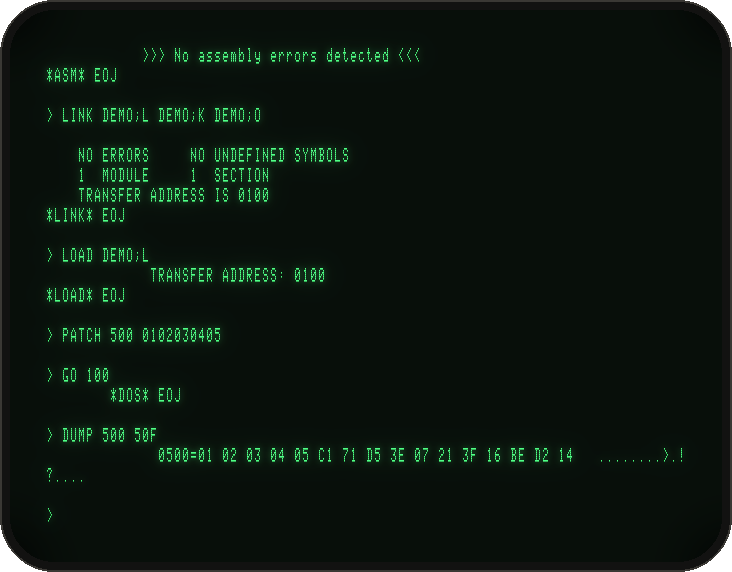
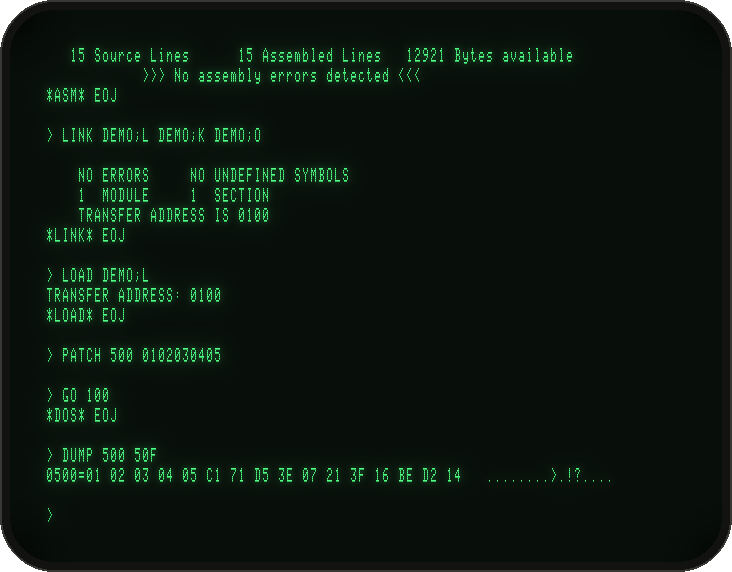
Docs: the CT8100's LF DOES CR strap and host features, lamps from the schematics, screenshots README
- Pictures regenerated on main's CT8100 (LF DOES CR, steady cursor): output starts at the
  left margin again, so the notes about misplaced columns are gone.
- OPERATION §6.4 and ARCHITECTURE §7: the strap, the host features (cursor addressing, clear
  page, read cursor, display fields, clear input, rulings), the steady cursor and -cursor blink;
  INTEGRATION §5: programs that drive the CT8100.
- README's GUI section: SYS, RUN and PWR from the schematics (notes/8002.md).
- docs/screenshots/README.md: how each picture is made, and what is a choice (font, phosphor).

Changed region(s): [[0.0601, 0.0892, 0.7814, 0.8619], [0.4809, 0.7727, 0.6311, 0.8619], [0.6311, 0.7727, 0.7814, 0.8322]]

diff --git a/docs/screenshots/README.md b/docs/screenshots/README.md
@@ -1,0 +1,52 @@
+# Screenshots
+
+Every picture here is made by a script from a batch run of the emulator, and comes out byte-identical on every run. The command sequences are those of the session tests in `tests/`.
+
+## The CT8100 screens (`tools/make_screenshots.sh`)
+
+The CT8100's screen as the emulator holds it, drawn on the raster the GUI uses (`emu/src/host/ct8100_raster.*`): 80 × 24 characters, each a 5 × 8 dot glyph in an 8 × 10 dot field, so 640 dots × 240 scan lines. Every scan line is doubled, the second dimmer, for 640 × 480, and the picture sits on a tube face with a phosphor glow (`tools/render_screens.py --crt`). The glyphs are read from `emu/src/host/term_font.inc`, the font both front ends use.
+
+The CT8100's character generator and its phosphor colour are not documented (`notes/ct8100.md`). The font is the one the sibling 8550 emulator draws its CT8500 with: the Tektronix 308's character ROM for upper case, and a lower case drawn to match. The green is the GUI's.
+
+Each session runs twice on fresh copies of its discs. The first run finds where it ends; the second saves the screen (`-snap`) every 0.05 s, and `tools/pick_snap.py` picks the first frame that holds the wanted output at a bare `>` prompt. A `-snap` is text, so the pictures show no cursor, and display fields' looks are not kept (TEKDOS uses none).
+
+| Picture | Session |
+|---|---|
+| `01_ldir.png` | boot TEKDOS 3.3 (6800) and `LDIR` |
+| `02_lower_case.png` | `ldir` in lower case: ERROR 03 |
+| `03_backspace_rubout.png` | BACK SPACE overwrites; RUB OUT echoes the deleted character |
+| `04_write_protected.png` | ASM without `-rw`: I/O ERROR=0F |
+| `10_z80_build.png` | Tektronix's Z80 DEMO: ASM, LINK, LOAD, PATCH, GO, DUMP |
+| `11_z80_trace.png` | `DEBUG`, `TRACE ALL`, `GO 100` |
+| `12_z80_debug_ended.png` | BKPT after `*DOS* EOJ`: DEBUG has ended |
+| `13_z80_debug.png` | BKPT, DSTAT, SET, TRACE ALL STEP |
+| `14_z80_halt.png` | HALT: ERROR 46, then a break under DEBUG |
+| `20_m68_run.png` | a 6800 program prints by SVC |
+| `21_m68_trace.png` | the 6800 traced |
+| `22_m68_debug.png` | 6800 BKPT, DSTAT, SET, STEP |
+| `30_asm_link.png`, `31_asm_listing.png` | ASM and LINK on the Assembler Processor; the listing |
+| `40_syscomm.png` | LDIR to LPT1, COPY to REMO and PPTP |
+| `50_format_dup.png` | FORMAT, DUP and LDIR of a never-formatted disc |
+| `60_mode1.png`, `61_mode2_trace.png` | modes 1 and 2 against `tools/proto_target.py` |
+
+## The graphical front end (`tools/make_tutorial_shots.sh`, `tools/make_hero.sh`)
+
+`tek8002-gui -shot` captures of the CT8100 window and both front panels, run with `SDL_VIDEODRIVER=dummy SDL_RENDER_DRIVER=software` and composed on a backdrop by `tools/compose_gui.py`. Batch runs of the GUI advance 1/60 s of machine time per frame, so the captures are deterministic.
+
+| Picture | What |
+|---|---|
+| `tutorials/t1_boot.png` | four seconds after power-up: the bootstrap PROM reading TEKDOS from drive 0 |
+| `tutorials/t1_ldir.png` | TEKDOS up, after `LDIR` |
+| `hero.png` | the README picture: Tektronix's Z80 DEMO traced under DEBUG |
+
+The front panels are drawn after photos of a surviving pair of units and 070-2701 Fig. 2-6 (`tools/gen_panels.py`). The drive-busy dots on the doors are an emulator aid.
+
+## Regenerating
+
+```
+make -C emu && make -C emu gui
+tools/make_screenshots.sh           # needs ../tekmato and python3 with Pillow
+tools/make_tutorial_shots.sh
+tools/make_hero.sh
+```
+Each takes an optional work directory. `git status docs/` stays clean unless something visible changed.

diff --git a/docs/OPERATION.md b/docs/OPERATION.md
@@ -95,6 +95,7 @@ Options only the GUI takes:
 | `-scale F` | window scale. By default the windows fit the screen, centred |
 | `-panels on\|off` | show the front panels |
 | `-artwork DIR` | where `8002a.lay` and `fdu.lay` are (default `artwork`, so run from `emu/`, or give `-artwork emu/artwork`) |
+| `-cursor steady\|blink` | the CT8100's cursor: steady (default), or blinking, as with its BLINK CURSOR strap |
 | `-shot SEC FILE.bmp` | save the windows at emulated second SEC: `FILE.bmp` (the CT8100), `FILE_8002a.bmp` and `FILE_fdu.bmp`. If the run ends sooner, the shot is taken at the end |
 
 With `-cycles` the GUI runs as a batch: flat out, 1/60 s of machine time per frame, deterministic. With `SDL_VIDEODRIVER=dummy SDL_RENDER_DRIVER=software` it needs no display, which is how the pictures in these documents are made:
@@ -265,9 +266,13 @@ In the first line the `P` was typed over the `Q`. In the second, the deleted `Q`
 
 ### 6.4 The CT8100 screen
 
-The CT8100 (070-2359) is Tektronix's version of its 4023 terminal: 24 lines of 80 characters. It is modelled in DIRECT mode with the codes TEKDOS uses (`notes/ct8100.md`): BS and HT move the cursor without erasing, LF moves down and rolls the screen past the 24th line, CR returns to the left margin, BEL beeps, and DEL neither writes nor spaces.
+The CT8100 (070-2359) is Tektronix's version of its 4023 terminal: 24 lines of 80 characters. It is modelled in DIRECT mode, from its manual (`notes/ct8100.md`).
 
-- TEKDOS echoes Return as a line feed with no carriage return. So output that does not start with its own CR, such as `*DOS* EOJ` after `GO`, starts in the column where the command line ended. You will see this in the pictures. The CT8100 manual names "a CR with LF" as a strap option, which the emulator does not set.
+- **What TEKDOS uses:** BS and HT move the cursor without erasing, LF moves down and rolls the screen past the 24th line, CR returns to the left margin, BEL beeps, and DEL neither writes nor spaces.
+- **The LF DOES CR strap is set:** a line feed also returns the carriage. TEKDOS echoes Return as LF (and DC3) with no CR, so the lab's terminal must have had this strap; without it, TEKDOS's next output would start where the command line ended (inferred from that echo).
+- **For your programs,** the terminal's host features are there too: cursor addressing (FS, column + 32, line + 32), clear page (ESC FF), read cursor (ESC ], answered with GS X Y CR), display fields (US and a field attribute code: inverse, blinking, dim, blanked, protected), clear input (ESC O), and the optional rulings set (SO/SI). They are drawn by the GUI. The terminal front end passes the 8002's output to your own terminal as it is, so a program that uses them needs `tek8002-gui`.
+- **The cursor is steady,** as on the standard terminal: "The standard 4023 does not blink the cursor" (p. 2-2). The BLINK CURSOR strap made it blink; `-cursor blink` in the GUI sets it. Blinking fields and the strapped cursor blink at 1 Hz (inferred).
+- Not modelled: BUFFER mode and its keyboard editing, the send-page commands, hard copy (`notes/ct8100.md`).
 - The CT8100's character generator and its phosphor colour are not documented. The font is the one the sibling 8550 emulator draws its CT8500 with, and the green is a choice.
 
 ### 6.5 FORMAT, DUP and COPYSYS

diff --git a/docs/ARCHITECTURE.md b/docs/ARCHITECTURE.md
@@ -129,7 +129,7 @@ The **memory map** is 512 bits on the System Communications board, one per 128-b
 
 ## 7. The CT8100 and the front panels
 
-**The CT8100** (070-2359, `notes/ct8100.md`) is Tektronix's version of its 4023 terminal: 24 lines of 80. It is modelled in DIRECT mode with the codes TEKDOS uses. BS and HT move the cursor without erasing, which matters because TEKDOS's BACK SPACE echoes a bare BS. Its TTY LOCK key turns lower case into upper case, and is down by default because TEKDOS takes upper case only (a choice: its state is not documented). Buffer mode, cursor addressing and the ESC commands are documented but not modelled, since TEKDOS sends none of them. The character ROM and the phosphor colour are unknown; the font is the 8550 emulator's (`host/term_font.inc`).
+**The CT8100** (070-2359, `notes/ct8100.md`) is Tektronix's version of its 4023 terminal: 24 lines of 80. It is modelled in DIRECT mode with the codes TEKDOS uses. BS and HT move the cursor without erasing, which matters because TEKDOS's BACK SPACE echoes a bare BS. Its TTY LOCK key turns lower case into upper case, and is down by default because TEKDOS takes upper case only (a choice: its state is not documented). Its LF DOES CR strap is set, as TEKDOS's echo of Return (LF with no CR) shows the lab's terminal had. The host features a program could use are modelled too: cursor addressing, clear page, read cursor, display fields, clear input and the rulings set, with `ct8100_raster` drawing the fields' looks (inverse, dim, blinking, blanked) for the GUI; `emu/tests/ct8100_test.cpp` checks them. BUFFER mode is documented but not modelled. The character ROM and the phosphor colour are unknown; the font is the 8550 emulator's (`host/term_font.inc`).
 
 **The front panels** (070-2701 Fig. 2-6, photos of a surviving pair) are MAME `.lay` files generated by `tools/gen_panels.py`. They read and drive the system's named outputs and inputs (INTEGRATION.md §3). Their lamps follow the service manual's schematics (`notes/8002.md`, "Front panel lamps"): PWR is lit from +5.2 V; SYS is the MASTER LED pair, lit while the master/slave flip-flop gives the bus to the 2650; RUN is lit while a processor runs and the bus is not held. That the SYS legend sits over the MASTER pair is inferred, as is what holding SYSTEM RESTART does to SYS and RUN (here both go dark).
 

diff --git a/README.md b/README.md
@@ -72,7 +72,7 @@ It takes the same options, plus `-cursor steady|blink` (the CT8100's cursor is s
   - **Disc unit:** POWER works, and each drive has a busy light. Drop a disc image on a drive door to insert it; click the door to take the disc out.
 - **Hotkeys** (Cmd, or Ctrl+Alt): V paste, C copy the screen, U TTY LOCK, T turbo, F full screen, S sharp/CRT, P show the panels, L fit the windows to the screen again, R SYSTEM RESTART, Q quit.
 
-What lights SYS and RUN is not described in the manuals. Here, SYS lights while the System Processor holds the bus, and RUN while any processor runs (inferred).
+The lamps follow the service manual's schematics (`notes/8002.md`, "Front panel lamps"): SYS is the master/slave flip-flop giving the bus to the System Processor, RUN the bus line RUN (a processor runs) gated by HOLD, PWR the +5.2 V supply. That the SYS legend sits over the MASTER LED pair, and that SYS and RUN go dark while SYSTEM RESTART is held, are inferred.
 
 A headless check: `SDL_VIDEODRIVER=dummy SDL_RENDER_DRIVER=software build/tek8002-gui -0 IMG -cycles $((40*1250000)) -type prompt 'LDIR\r' -shot 35 x.bmp`.
 

diff --git a/docs/INTEGRATION.md b/docs/INTEGRATION.md
@@ -221,7 +221,11 @@ The firmware PROMs of the 6800 and Z80 boards were never dumped, so theirs are h
 
 ---
 
-## 5. Conventions
+## 5. Programs that drive the CT8100
+
+A program on the emulator board can use the CT8100's host features through TEKDOS's console output: cursor addressing (FS, X = column + 32, Y = line + 32), clear page (ESC FF), read cursor (ESC ]; the terminal answers GS, X, Y, CR on the console input), display fields (US and a field attribute code), clear input (ESC O) and the rulings set (SO, SI). The codes are in `notes/ct8100.md` and 070-2359 Table 2-1/2-2. `host/ct8100` interprets them; `-snap` saves the screen as text (rulings as their nearest ASCII, fields' looks dropped); the GUI draws everything. The terminal front end does not translate them for your own terminal.
+
+## 6. Conventions
 
 - **Fidelity:** model the 1979 hardware and nothing more. Where something had to be inferred, say so.
 - **Compatibility:** protocol changes are additive and versioned; older peers keep working.

diff --git a/docs/TUTORIALS.md b/docs/TUTORIALS.md
@@ -12,8 +12,6 @@ Short recipes, a few minutes each. Every one is a command sequence from the sess
 8. [A ZX Spectrum as the prototype](#8-a-zx-spectrum-as-the-prototype)
 9. [Scripted, headless runs](#9-scripted-headless-runs)
 
-A word on the pictures: TEKDOS echoes Return as a line feed without a carriage return, and the CT8100 is modelled without its "CR with LF" strap. So output that does not begin with its own CR (`*DOS* EOJ` after `GO`, for instance) starts in the column where the command line ended ([OPERATION.md §6.4](OPERATION.md#64-the-ct8100-screen)).
-
 ---
 
 ## 1. Boot and LDIR
